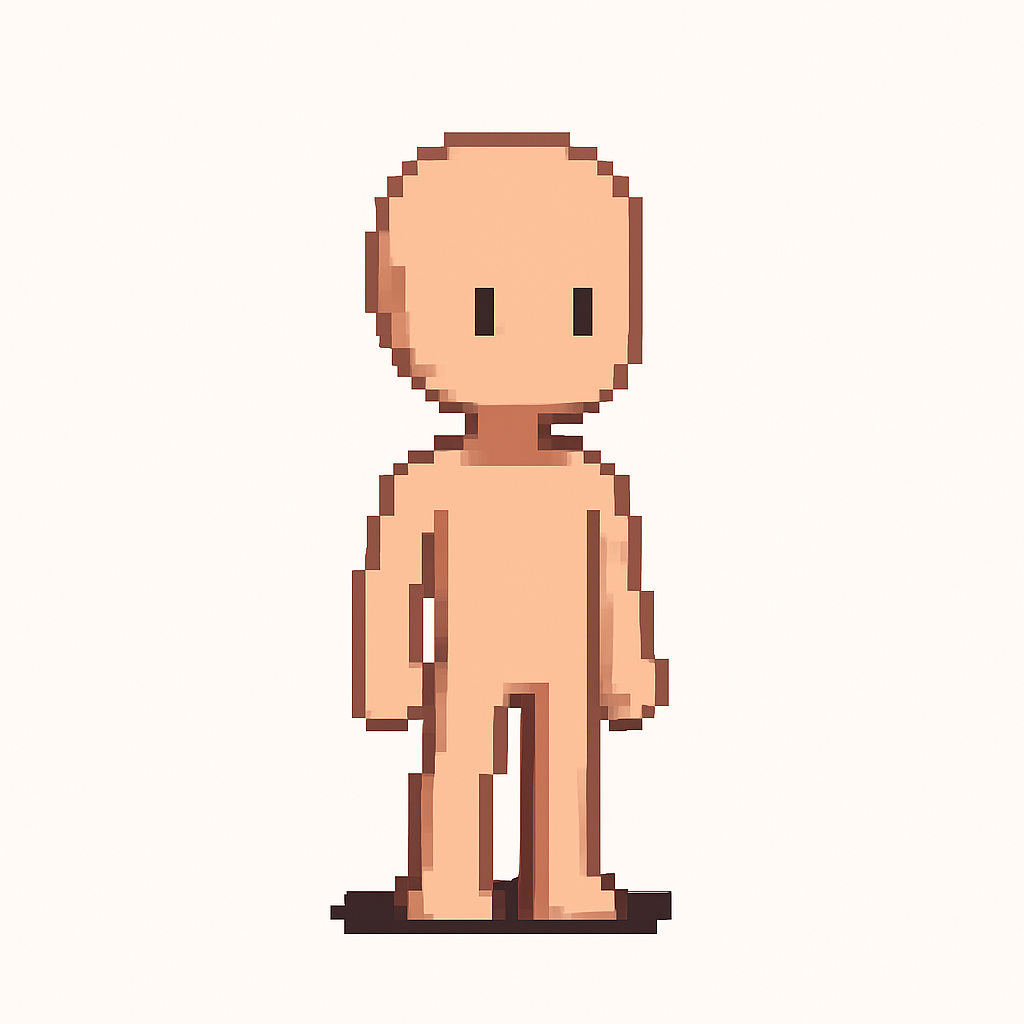
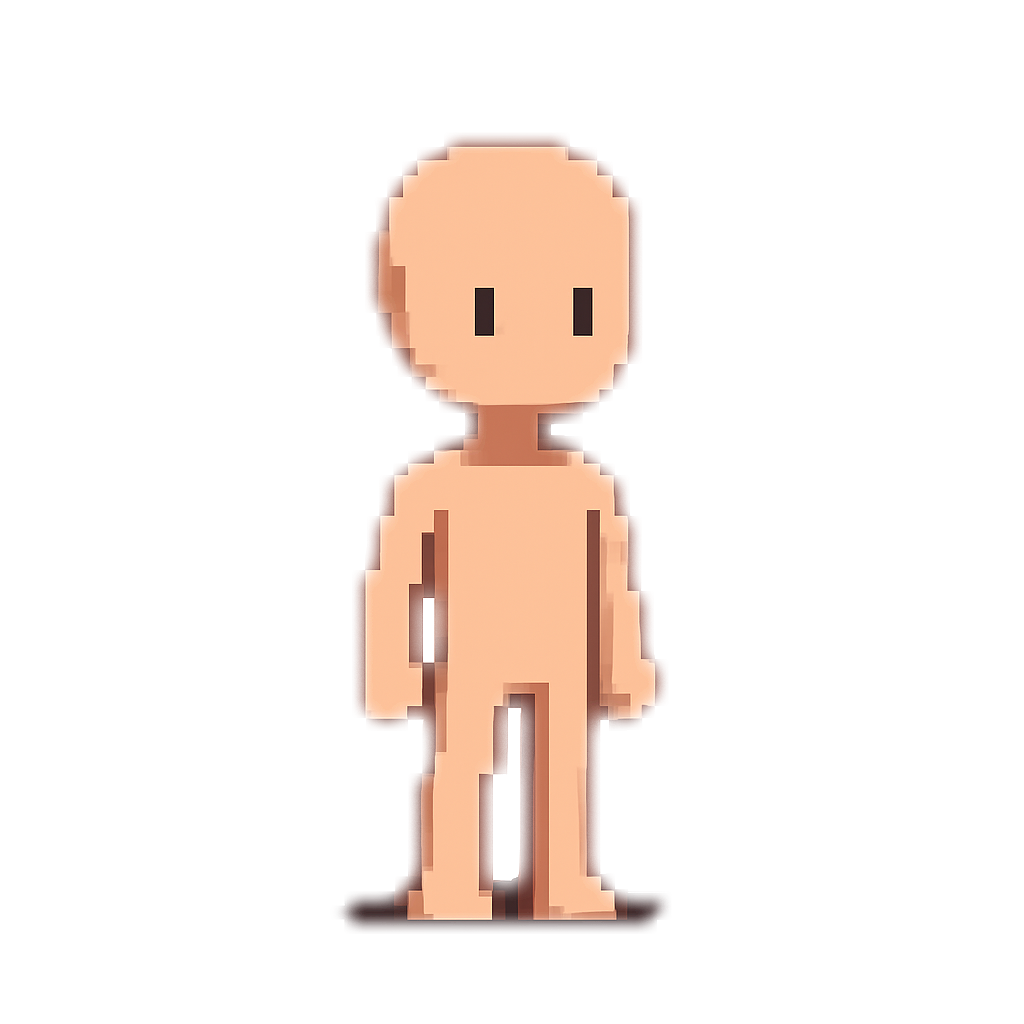
💄 feat: 파츠 이미지 경로 조정 및 캐릭터 렌더링 최적화

Changed region(s): [[0.3125, 0.125, 0.6562, 0.9375]]

diff --git a/src/components/character/CharacterRenderer.tsx b/src/components/character/CharacterRenderer.tsx
@@ -1,7 +1,7 @@
 "use client";
 
 import Image from "next/image";
-import React, { useCallback, useMemo, useState, useEffect } from "react";
+import React, { useMemo, useState, useEffect } from "react";
 import { useCharacterStore } from "@/store/characterStore";
 import {
   getAllPartOptions,
@@ -69,39 +69,27 @@ const CharacterRenderer = React.memo(function CharacterRenderer({
   const { form } = useCharacterStore();
   const { partOptions } = usePartOptions();
 
-  // 파츠 라벨을 실제 파일 경로로 변환하는 함수
-  const getPartImagePath = useCallback(
-    (category: PartCategory, label: string): string => {
-      const options = partOptions[category] || [];
-      const option = options.find(
-        (opt) => opt.label === label || opt.value === label
-      );
-      return option?.imagePath || `/img/parts/${category}/${label}.png`;
-    },
-    [partOptions]
-  );
-
-  // 각 파츠의 이미지 경로를 메모화
+  // 각 파츠의 이미지 경로와 조정 정보를 메모화
   const partPaths = useMemo(
     () => ({
       head:
         form["머리"] && form["머리"] !== "기본"
-          ? getPartImagePath("head", form["머리"])
+          ? partOptions.head.find((opt) => opt.label === form["머리"])
           : null,
       body:
         form["몸통"] && form["몸통"] !== "기본"
-          ? getPartImagePath("body", form["몸통"])
+          ? partOptions.body.find((opt) => opt.label === form["몸통"])
           : null,
       legs:
         form["다리"] && form["다리"] !== "기본"
-          ? getPartImagePath("legs", form["다리"])
+          ? partOptions.legs.find((opt) => opt.label === form["다리"])
           : null,
       shoes:
         form["신발"] && form["신발"] !== "기본"
-          ? getPartImagePath("shoes", form["신발"])
+          ? partOptions.shoes.find((opt) => opt.label === form["신발"])
           : null,
     }),
-    [form, getPartImagePath]
+    [form, partOptions]
   );
 
   return (
@@ -121,11 +109,16 @@ const CharacterRenderer = React.memo(function CharacterRenderer({
       {/* 머리 파츠 */}
       {partPaths.head && (
         <Image
-          src={partPaths.head}
+          src={partPaths.head.imagePath}
           alt="머리 파츠"
           width={width}
           height={height}
-          className="absolute inset-0 object-contain"
+          className="absolute inset-0 object-contain z-10"
+          style={{
+            transform: `translate(${partPaths.head.offsetX || 0}px, ${
+              partPaths.head.offsetY || 0
+            }px) scale(${partPaths.head.scale || 1})`,
+          }}
           onError={(e) => {
             // 이미지 로드 실패 시 숨김
             e.currentTarget.style.display = "none";
@@ -136,11 +129,16 @@ const CharacterRenderer = React.memo(function CharacterRenderer({
       {/* 몸통 파츠 */}
       {partPaths.body && (
         <Image
-          src={partPaths.body}
+          src={partPaths.body.imagePath}
           alt="몸통 파츠"
           width={width}
           height={height}
           className="absolute inset-0 object-contain"
+          style={{
+            transform: `translate(${partPaths.body.offsetX || 0}px, ${
+              partPaths.body.offsetY || 0
+            }px) scale(${partPaths.body.scale || 1})`,
+          }}
           onError={(e) => {
             e.currentTarget.style.display = "none";
           }}
@@ -150,11 +148,16 @@ const CharacterRenderer = React.memo(function CharacterRenderer({
       {/* 다리 파츠 */}
       {partPaths.legs && (
         <Image
-          src={partPaths.legs}
+          src={partPaths.legs.imagePath}
           alt="다리 파츠"
           width={width}
           height={height}
           className="absolute inset-0 object-contain"
+          style={{
+            transform: `translate(${partPaths.legs.offsetX || 0}px, ${
+              partPaths.legs.offsetY || 0
+            }px) scale(${partPaths.legs.scale || 1})`,
+          }}
           onError={(e) => {
             e.currentTarget.style.display = "none";
           }}
@@ -164,11 +167,16 @@ const CharacterRenderer = React.memo(function CharacterRenderer({
       {/* 신발 파츠 */}
       {partPaths.shoes && (
         <Image
-          src={partPaths.shoes}
+          src={partPaths.shoes.imagePath}
           alt="신발 파츠"
           width={width}
           height={height}
           className="absolute inset-0 object-contain"
+          style={{
+            transform: `translate(${partPaths.shoes.offsetX || 0}px, ${
+              partPaths.shoes.offsetY || 0
+            }px) scale(${partPaths.shoes.scale || 1})`,
+          }}
           onError={(e) => {
             e.currentTarget.style.display = "none";
           }}

diff --git a/src/utils/partUtils.ts b/src/utils/partUtils.ts
@@ -8,6 +8,9 @@ export type PartItem = {
   value: string;
   label: string;
   imagePath: string;
+  offsetX?: number; // X축 오프셋 (픽셀)
+  offsetY?: number; // Y축 오프셋 (픽셀)
+  scale?: number; // 크기 조정 (1.0 = 기본 크기)
 };
 
 /**
@@ -34,6 +37,56 @@ const FALLBACK_PARTS_FILES: Record<PartCategory, string[]> = {
   legs: ["Bottom0.png"],
   shoes: ["Shoes0.png"],
 };
+
+/**
+ * 카테고리별 기본 위치 조정 정보
+ */
+const CATEGORY_BASE_ADJUSTMENTS: Record<
+  PartCategory,
+  { offsetX: number; offsetY: number; scale: number }
+> = {
+  head: { offsetX: 0, offsetY: -25, scale: 0.8 }, // 머리는 더 위쪽에 배치하고 크기 축소
+  body: { offsetX: 0, offsetY: -5, scale: 1.0 }, // 상체는 중앙에서 약간 위
+  legs: { offsetX: 0, offsetY: 15, scale: 1.0 }, // 다리는 아래쪽에 배치
+  shoes: { offsetX: 0, offsetY: 25, scale: 1.0 }, // 신발은 가장 아래쪽에 배치
+};
+
+/**
+ * 특정 파츠 파일에 대한 개별 조정 정보 (카테고리 기본값에 추가로 적용)
+ */
+const INDIVIDUAL_PART_ADJUSTMENTS: Record<
+  string,
+  { offsetX?: number; offsetY?: number; scale?: number }
+> = {
+  // 토마토 머리 - 카테고리 기본값에 추가로 적용
+  "Head2.png": { offsetX: 0, offsetY: 5, scale: 1.0 },
+
+  // 다른 머리 파츠 예시
+  // "Head3.png": { offsetX: 2, offsetY: -3, scale: 0.95 },
+
+  // 상체 파츠 예시
+  // "body1.png": { offsetX: 0, offsetY: 2, scale: 1.05 },
+
+  // 다리 파츠 예시
+  // "Bottom1.png": { offsetX: 0, offsetY: -2, scale: 1.0 },
+
+  // 신발 파츠 예시
+  // "Shoes1.png": { offsetX: 0, offsetY: 3, scale: 1.1 },
+};
+
+/**
+ * 파츠 파일명과 카테고리에 따른 최종 조정 정보 계산
+ */
+function getPartAdjustment(fileName: string, category: PartCategory) {
+  const baseAdjustment = CATEGORY_BASE_ADJUSTMENTS[category];
+  const individualAdjustment = INDIVIDUAL_PART_ADJUSTMENTS[fileName] || {};
+
+  return {
+    offsetX: baseAdjustment.offsetX + (individualAdjustment.offsetX || 0),
+    offsetY: baseAdjustment.offsetY + (individualAdjustment.offsetY || 0),
+    scale: baseAdjustment.scale * (individualAdjustment.scale || 1),
+  };
+}
 
 /**
  * 동적으로 로드된 파츠 파일 목록을 캐시
@@ -129,11 +182,15 @@ export async function getPartOptions(
 ): Promise<PartItem[]> {
   const files = await fetchPartFiles(category);
 
-  return files.map((fileName: string) => ({
-    value: fileNameToLabel(fileName, category),
-    label: fileNameToLabel(fileName, category),
-    imagePath: `/img/parts/${category}/${fileName}`,
-  }));
+  return files.map((fileName: string) => {
+    const adjustment = getPartAdjustment(fileName, category);
+    return {
+      value: fileNameToLabel(fileName, category),
+      label: fileNameToLabel(fileName, category),
+      imagePath: `/img/parts/${category}/${fileName}`,
+      ...adjustment,
+    };
+  });
 }
 
 /**
@@ -152,11 +209,15 @@ export async function getAllPartOptions(): Promise<
 
   for (const category of categories) {
     const files = allFiles[category] || FALLBACK_PARTS_FILES[category];
-    result[category] = files.map((fileName: string) => ({
-      value: fileNameToLabel(fileName, category),
-      label: fileNameToLabel(fileName, category),
-      imagePath: `/img/parts/${category}/${fileName}`,
-    }));
+    result[category] = files.map((fileName: string) => {
+      const adjustment = getPartAdjustment(fileName, category);
+      return {
+        value: fileNameToLabel(fileName, category),
+        label: fileNameToLabel(fileName, category),
+        imagePath: `/img/parts/${category}/${fileName}`,
+        ...adjustment,
+      };
+    });
   }
 
   return result;
@@ -185,11 +246,15 @@ export async function getPartImagePath(
 export function getDefaultPartOptions(category: PartCategory): PartItem[] {
   const files = FALLBACK_PARTS_FILES[category] || [];
 
-  return files.map((fileName: string) => ({
-    value: fileNameToLabel(fileName, category),
-    label: fileNameToLabel(fileName, category),
-    imagePath: `/img/parts/${category}/${fileName}`,
-  }));
+  return files.map((fileName: string) => {
+    const adjustment = getPartAdjustment(fileName, category);
+    return {
+      value: fileNameToLabel(fileName, category),
+      label: fileNameToLabel(fileName, category),
+      imagePath: `/img/parts/${category}/${fileName}`,
+      ...adjustment,
+    };
+  });
 }
 
 /**

diff --git a/src/components/customize/CustomizePanel.tsx b/src/components/customize/CustomizePanel.tsx
@@ -8,6 +8,7 @@ import type { CharacterForm } from "@/store/characterStore";
 import Input from "@/components/common/Input";
 import CustomSelect from "./CustomSelect";
 import { customizeTranslations } from "./translations";
+import CharacterRenderer from "@/components/character/CharacterRenderer";
 import {
   getAllPartOptions,
   getDefaultPartOptions,
@@ -265,27 +266,9 @@ export default function CustomizePanel({
   const { language } = useLanguage();
   const { partOptions } = usePartOptions();
 
-  // 미리보기 이미지가 사용하는 필드만 개별 구독하여 리렌더 최소화
-  const head = useCharacterStore((s) => s.form["머리"]);
-  const body = useCharacterStore((s) => s.form["몸통"]);
-  const legs = useCharacterStore((s) => s.form["다리"]);
-  const shoes = useCharacterStore((s) => s.form["신발"]);
-
   // 카테고리 목록을 partOptions 기반으로 생성
   const categoryList = useMemo(
     () => createCategoryList(partOptions),
-    [partOptions]
-  );
-
-  // 파츠 라벨을 실제 파일 경로로 변환하는 함수
-  const getPartImagePath = useCallback(
-    (category: PartCategory, label: string): string => {
-      const options = partOptions[category] || [];
-      const option = options.find(
-        (opt) => opt.label === label || opt.value === label
-      );
-      return option?.imagePath || `/img/parts/${category}/${label}.png`;
-    },
     [partOptions]
   );
 
@@ -318,71 +301,13 @@ export default function CustomizePanel({
         {/* 왼쪽: 캐릭터 미리보기 */}
         <div className="flex-1 flex items-center justify-center">
           <div className="relative size-[220px]">
-            {/* 베이스 캐릭터 */}
-            <Image
-              src="/img/base.png"
-              alt="베이스 캐릭터"
-              fill
-              className="absolute inset-0 object-contain"
+            <CharacterRenderer
+              width={220}
+              height={220}
+              className="w-full h-full"
               priority
+              showBase={true}
             />
-
-            {/* 머리 파츠 */}
-            {head && head !== "기본" && (
-              <Image
-                src={getPartImagePath("head", head)}
-                alt="머리 파츠"
-                width={220}
-                height={220}
-                className="absolute inset-0 object-contain"
-                onError={(e) => {
-                  // 이미지 로드 실패 시 숨김
-                  e.currentTarget.style.display = "none";
-                }}
-              />
-            )}
-
-            {/* 몸통 파츠 */}
-            {body && body !== "기본" && (
-              <Image
-                src={getPartImagePath("body", body)}
-                alt="몸통 파츠"
-                width={220}
-                height={220}
-                className="absolute inset-0 object-contain"
-                onError={(e) => {
-                  e.currentTarget.style.display = "none";
-                }}
-              />
-            )}
-
-            {/* 다리 파츠 */}
-            {legs && legs !== "기본" && (
-              <Image
-                src={getPartImagePath("legs", legs)}
-                alt="다리 파츠"
-                width={220}
-                height={220}
-                className="absolute inset-0 object-contain"
-                onError={(e) => {
-                  e.currentTarget.style.display = "none";
-                }}
-              />
-            )}
-
-            {/* 신발 파츠 */}
-            {shoes && shoes !== "기본" && (
-              <Image
-                src={getPartImagePath("shoes", shoes)}
-                alt="신발 파츠"
-                width={220}
-                height={220}
-                className="absolute inset-0 object-contain"
-                onError={(e) => {
-                  e.currentTarget.style.display = "none";
-                }}
-              />
-            )}
           </div>
         </div>
 
